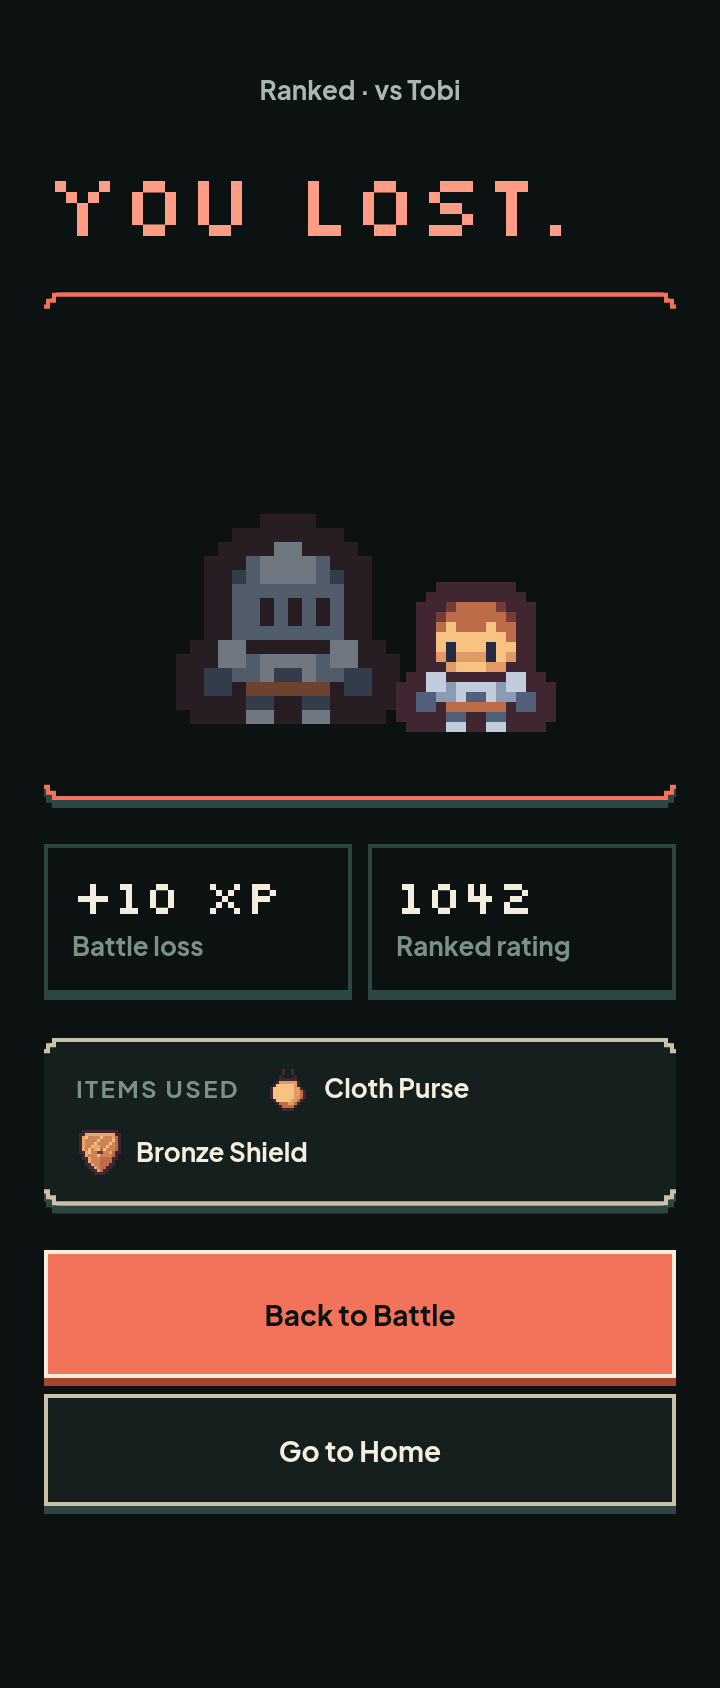
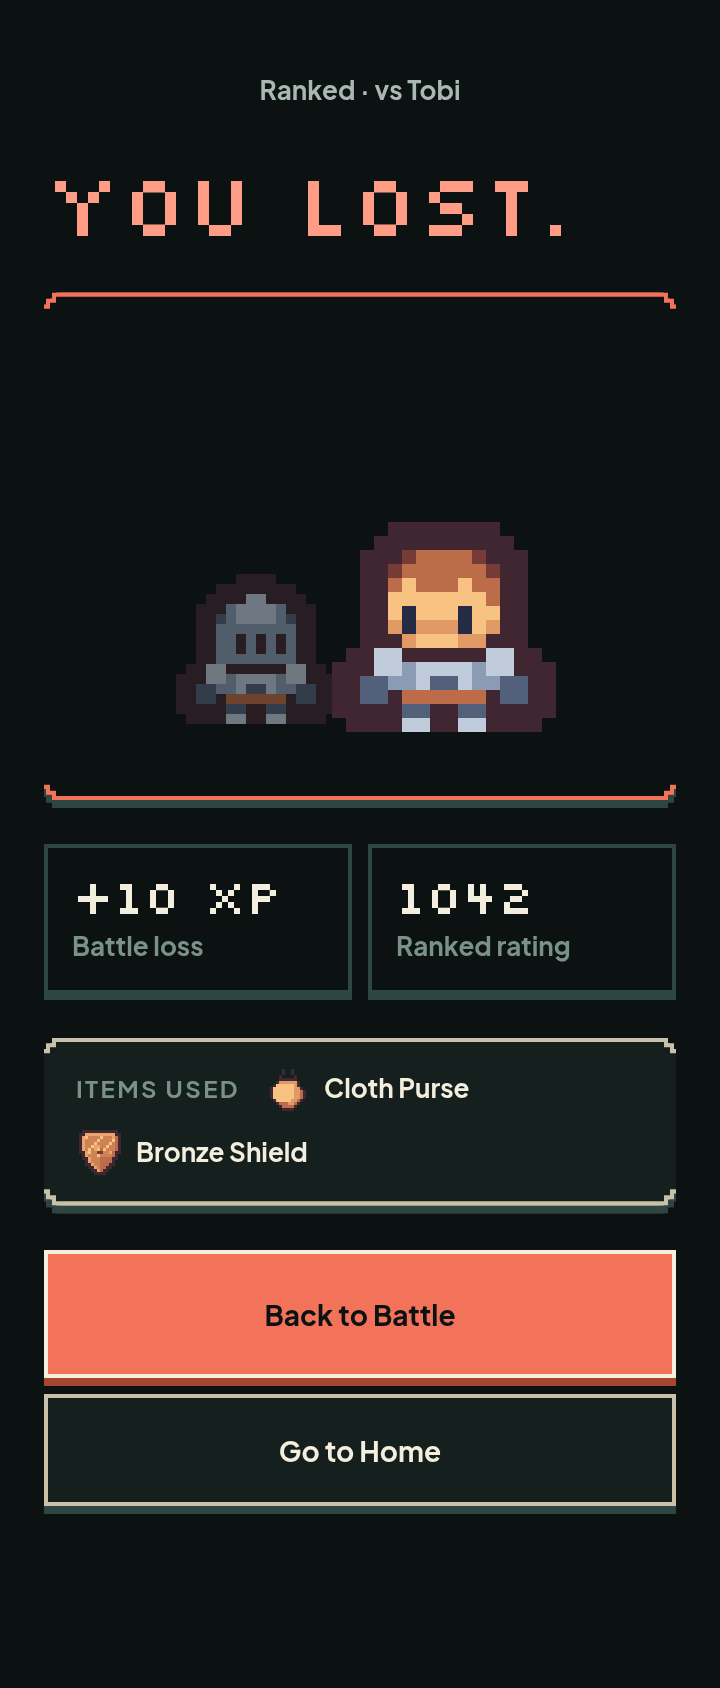
feat: size result sprites by winner and make ties equal

Changed region(s): [[0.2444, 0.2773, 0.7639, 0.4313]]

diff --git a/docs/superpowers/renders/battle/review/index.html b/docs/superpowers/renders/battle/review/index.html
@@ -158,7 +158,7 @@
 
 <section class="screen">
   <h2>Result — win</h2>
-  <p class="route">/battle/[id]/result — mint headline, faded opponent, XP and rating</p>
+  <p class="route">/battle/[id]/result — mint headline, larger winner, faded opponent</p>
   <div class="strip">
     <figure><figcaption>360</figcaption><img src="../after/battle-result-win@360.png" alt="Win at 360px"></figure>
     <figure><figcaption>390</figcaption><img src="../after/battle-result-win@390.png" alt="Win at 390px"></figure>
@@ -168,7 +168,7 @@
 
 <section class="screen">
   <h2>Result — loss</h2>
-  <p class="route">/battle/[id]/result — coral headline, faded viewer</p>
+  <p class="route">/battle/[id]/result — coral headline, larger opponent, faded viewer</p>
   <div class="strip">
     <figure><figcaption>360</figcaption><img src="../after/battle-result-loss@360.png" alt="Loss at 360px"></figure>
     <figure><figcaption>390</figcaption><img src="../after/battle-result-loss@390.png" alt="Loss at 390px"></figure>
@@ -178,7 +178,7 @@
 
 <section class="screen">
   <h2>Result — tie</h2>
-  <p class="route">/battle/[id]/result — cream headline, both fighters full</p>
+  <p class="route">/battle/[id]/result — cream headline, equal sprites</p>
   <div class="strip">
     <figure><figcaption>360</figcaption><img src="../after/battle-result-tie@360.png" alt="Tie at 360px"></figure>
     <figure><figcaption>390</figcaption><img src="../after/battle-result-tie@390.png" alt="Tie at 390px"></figure>

diff --git a/src/app/battle/[id]/result/page.tsx b/src/app/battle/[id]/result/page.tsx
@@ -16,6 +16,7 @@ import {
   battleOutcome,
   battleXpForOutcome,
   resultCopy,
+  resultSpriteSizes,
   type BattleResult,
 } from '@/lib/battle-ui'
 import { rivalForBattle } from '@/lib/game/rivals'
@@ -128,6 +129,7 @@ export default function BattleResultPage() {
   const outcome = battleOutcome(battle.winner, viewer.address)
   const copy = resultCopy(outcome)
   const xp = battleXpForOutcome(outcome)
+  const spriteSizes = resultSpriteSizes(outcome)
   const myHp = viewer.side === 'a' ? battle.hpA : battle.hpB
   const oppHp = viewer.side === 'a' ? battle.hpB : battle.hpA
   const modeLabel =
@@ -139,9 +141,12 @@ export default function BattleResultPage() {
 
   const opponentArt =
     battle.mode === 'ai' ? (
-      <RivalArt rival={rivalForBattle(id)} size={80} />
+      <RivalArt rival={rivalForBattle(id)} size={spriteSizes.opponent} />
     ) : (
-      <CharacterArt bracket={(battle.opponentBracket as Bracket | null) ?? null} size={80} />
+      <CharacterArt
+        bracket={(battle.opponentBracket as Bracket | null) ?? null}
+        size={spriteSizes.opponent}
+      />
     )
 
   const firstBlade =
@@ -199,7 +204,7 @@ export default function BattleResultPage() {
                 art: (
                   <CharacterArt
                     bracket={(viewer.bracket as Bracket | null) ?? null}
-                    size={112}
+                    size={spriteSizes.me}
                   />
                 ),
                 status: 'none',

diff --git a/src/lib/battle-ui.ts b/src/lib/battle-ui.ts
@@ -99,6 +99,22 @@ export function battleXpForOutcome(outcome: BattleResult): number {
   return XP_VALUES.battleTie
 }
 
+/**
+ * Result-arena sprite sizes. The winner is 7x the 16px art, the loser 5x, and
+ * a tie gives both the 6x middle size. Whole multiples keep the pixels crisp.
+ */
+export const RESULT_SPRITE_SIZES = { winner: 112, loser: 80, tie: 96 } as const
+
+export function resultSpriteSizes(outcome: BattleResult): { me: number; opponent: number } {
+  if (outcome === 'win') {
+    return { me: RESULT_SPRITE_SIZES.winner, opponent: RESULT_SPRITE_SIZES.loser }
+  }
+  if (outcome === 'loss') {
+    return { me: RESULT_SPRITE_SIZES.loser, opponent: RESULT_SPRITE_SIZES.winner }
+  }
+  return { me: RESULT_SPRITE_SIZES.tie, opponent: RESULT_SPRITE_SIZES.tie }
+}
+
 export function resultCopy(outcome: BattleResult): {
   title: string
   tone: 'mint' | 'coral' | 'cream'

diff --git a/src/lib/battle-ui.test.ts b/src/lib/battle-ui.test.ts
@@ -12,6 +12,7 @@ import {
   rankedProgress,
   ratingRangeForWait,
   resultCopy,
+  resultSpriteSizes,
 } from './battle-ui'
 
 test('battlesLeft uses the daily limit and never goes negative', () => {
@@ -94,4 +95,10 @@ test('resultCopy returns the handoff title and tone', () => {
   assert.deepEqual(resultCopy('win'), { title: 'You win!', tone: 'mint' })
   assert.deepEqual(resultCopy('loss'), { title: 'You lost.', tone: 'coral' })
   assert.deepEqual(resultCopy('tie'), { title: "It's a tie.", tone: 'cream' })
+})
+
+test('result sprites make the winner larger and a tie equal', () => {
+  assert.deepEqual(resultSpriteSizes('win'), { me: 112, opponent: 80 })
+  assert.deepEqual(resultSpriteSizes('loss'), { me: 80, opponent: 112 })
+  assert.deepEqual(resultSpriteSizes('tie'), { me: 96, opponent: 96 })
 })

diff --git a/src/lib/battle-result.test.ts b/src/lib/battle-result.test.ts
@@ -13,6 +13,9 @@ test('the result screen owns the headline, arena, tiles and actions', () => {
   assert.match(RESULT, /header=/)
   assert.match(RESULT, /battleOutcome/)
   assert.match(RESULT, /battleXpForOutcome/)
+  assert.match(RESULT, /resultSpriteSizes/)
+  assert.match(RESULT, /spriteSizes\.me/)
+  assert.match(RESULT, /spriteSizes\.opponent/)
   assert.match(RESULT, /Battle win|Battle loss|Battle tie/)
   assert.match(RESULT, /sv-pop/)
   assert.match(RESULT, /Back to Battle/)

diff --git a/docs/superpowers/specs/2026-11-09-battle-ui-design.md b/docs/superpowers/specs/2026-11-09-battle-ui-design.md
@@ -336,8 +336,9 @@ Above `ResultPanel`, a centered `.sv-label text-fg-muted` subline:
 `{Ranked|Unranked|Friend · Unranked} · vs {opponentName}`.
 
 `ResultPanel`:
-- 250px arena with viewer left and opponent right; the loser at 0.55 opacity,
-  the winner at full opacity, both full on a tie;
+- 250px arena with viewer left and opponent right. Winner 112px (7x), loser
+  80px (5x), tie both 96px (6x). The loser is at 0.55 opacity, the winner at
+  full opacity; both full on a tie;
 - two tiles:
   - tile 1: `+{xp} XP`, label `Battle win` / `Battle loss` / `Battle tie`;
   - tile 2: ranked `{rating}`, label `Ranked rating`; unranked/AI
@@ -724,6 +725,10 @@ not add errors.
 10. **Check-in gate migration is manual.** The sandbox has no `.env.local`, so
     applying the migration and running the live acceptance checks is the
     user's deployment step before ranked is public.
+11. **Result sprite sizes follow the winner.** The handoff draws the result
+    sprites at nearly the same size (108/84). The app uses winner 112, loser
+    80 and tie 96 so the result reads at a glance. This applies to the result
+    screen only; the in-battle arena stays symmetric.
 
 ---
 

diff --git a/docs/superpowers/audits/2026-11-05-ui-gap-audit.md b/docs/superpowers/audits/2026-11-05-ui-gap-audit.md
@@ -660,7 +660,7 @@ The real-device pass in Nimiq Pay needs `.env.local` in the sandbox; the UI code
 
 | Check | Result |
 |---|---|
-| `npm test` | 295 pass, 0 fail |
+| `npm test` | 296 pass, 0 fail |
 | `npx tsc --noEmit` | clean |
 | `npm run lint` | exit 0, 50 warnings, 0 errors |
 | `npm run build` | exit 0 |
@@ -685,6 +685,7 @@ The real-device pass in Nimiq Pay needs `.env.local` in the sandbox; the UI code
 - Result shows the current rating, not a delta; unranked/AI show the record.
 - Daily Limit has a Missions link even though the figure does not draw one.
 - AI uses the existing rival art; the handoff's robot glyph is not in `assets/glyphs.json`.
+- Result sprites now follow the winner: 112px winner, 80px loser, 96px each on a tie. The handoff drew them near-equal; this is a deliberate readability change, result screen only.
 - Connection lost is an in-page state; polling continues.
 - The check-in gate migration is manual and still needs the live acceptance run.
 

diff --git a/docs/superpowers/renders/battle/review/NOTES.md b/docs/superpowers/renders/battle/review/NOTES.md
@@ -102,6 +102,9 @@ Corrections:
 - The result shows the current rating from `/api/profile`, not a delta. The
   pre-battle rating is not persisted. Unranked and AI results show the W-L-T
   record instead.
+- Result sprites follow the winner: 112px winner, 80px loser and 96px each on
+  a tie. The handoff drew them near-equal; this is a deliberate readability
+  change and applies to the result screen only.
 - The Daily Limit panel adds a `Go to Missions` link; the handoff caption asks
   for one but the figure does not draw it.
 - The AI card uses the existing rival art because the handoff's robot glyph is
